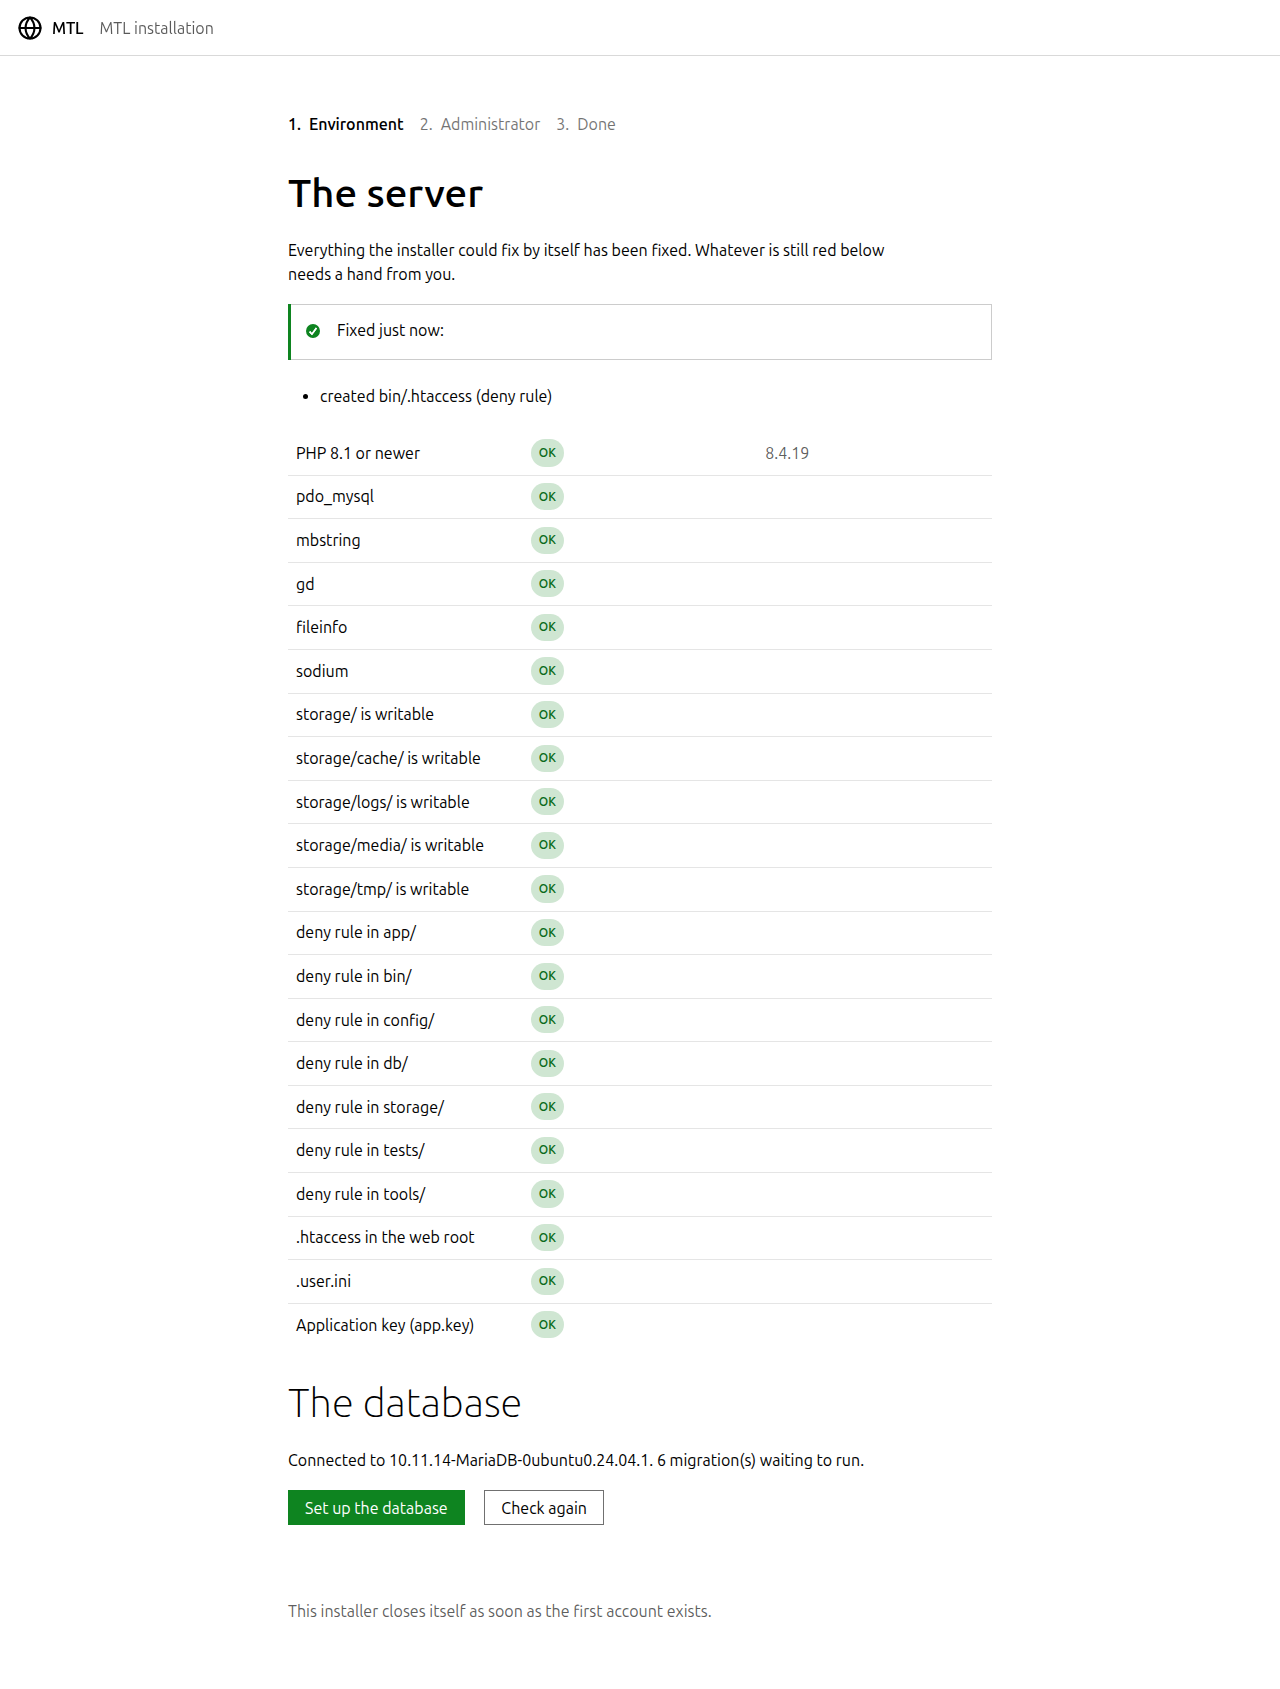
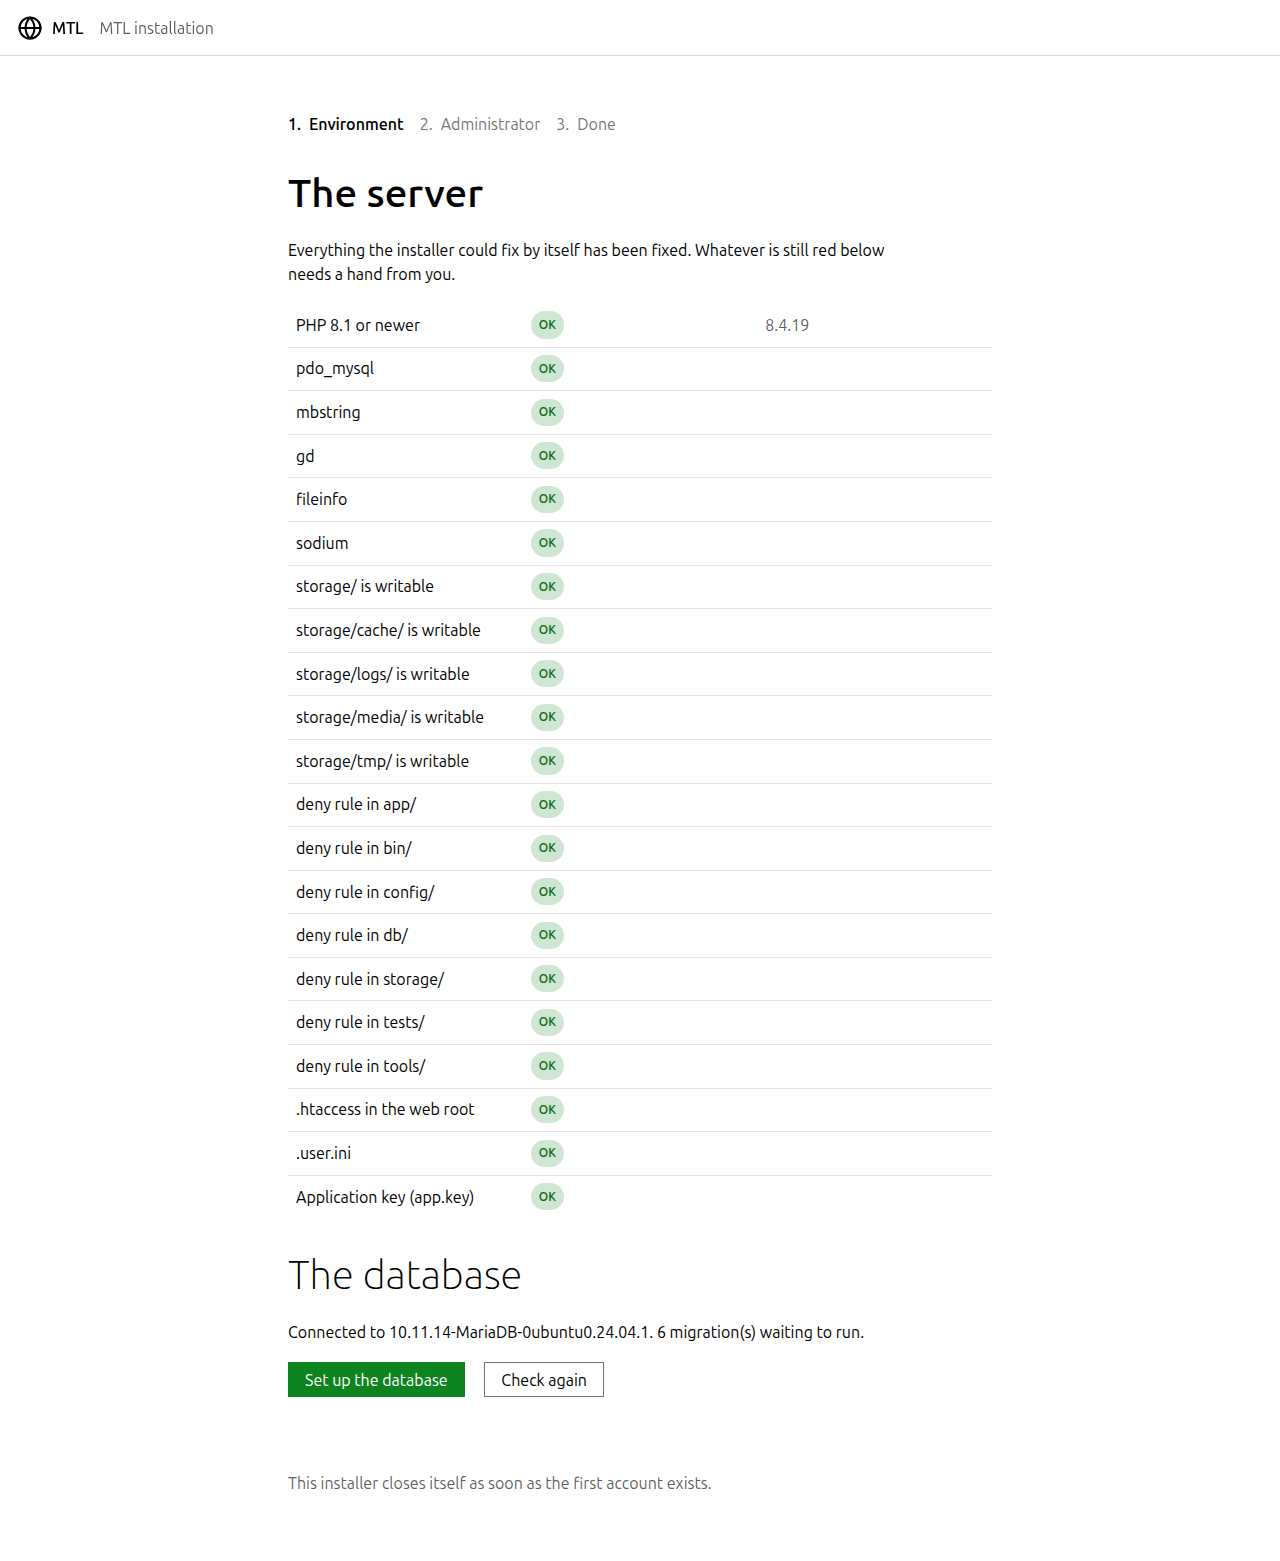
Serve the installer at the web root, so a missing .htaccess cannot hide it
The likeliest state of a fresh upload is "everything except the dotfiles":
FTP clients skip .htaccess by default. Without it there is no rewriting, so
the old behaviour — redirect every URL to /install — sent the visitor
straight to Apache's own 404. The one URL Apache serves without rewrites is
the root, via DirectoryIndex, so on an uninstalled site the root now renders
the installer's first step directly instead of redirecting to it. Its checks
then say precisely which file is missing and why an FTP client hides it.

The "check again" link on the blocked state reloads the current URL rather
than naming /install, for the same reason; and the router's existing
index.php?/path fallback means /index.php?/install reaches the wizard even
with rewriting broken.

Claude-Session: https://claude.ai/code/session_01TtB7t7GQqzjU1TjcAwjXux

diff --git a/app/Core/Application.php b/app/Core/Application.php
@@ -194,6 +194,18 @@ final class Application
             if (!\MTL\Services\InstallService::isInstalled()
                 && !str_starts_with($request->path, '/install')
             ) {
+                // The root is served without mod_rewrite (DirectoryIndex), and a
+                // missing .htaccess is the most common state a fresh upload is
+                // in — FTP clients skip dotfiles. Redirecting the root to
+                // /install would then land on Apache's own 404, so the first
+                // step renders here directly and its checks say exactly which
+                // file is missing.
+                if ($request->path === '/' || $request->path === '/index.php') {
+                    (new \MTL\Http\Controllers\InstallController())->environment($request)->send();
+
+                    return;
+                }
+
                 (new Response('', 302))->header('Location', path('/install'))->send();
 
                 return;

diff --git a/app/Views/install/environment.php b/app/Views/install/environment.php
@@ -63,7 +63,10 @@ $this->layout('install/layout', ['step' => 'environment', 'title' => $this->get(
             <p class="p-notification__message"><?= e(__('install.environment_blocked')) ?></p>
         </div>
     </div>
-    <p><a class="p-button" href="<?= e(path('/install')) ?>"><?= e(__('install.recheck')) ?></a></p>
+    <?php // An empty href reloads the URL we are on. That matters here: when
+          // the root .htaccess is the thing that is missing, this page is being
+          // served from / and a link to /install would die on Apache's 404. ?>
+    <p><a class="p-button" href=""><?= e(__('install.recheck')) ?></a></p>
 <?php else: ?>
 
     <h2><?= e(__('install.database_heading')) ?></h2>
